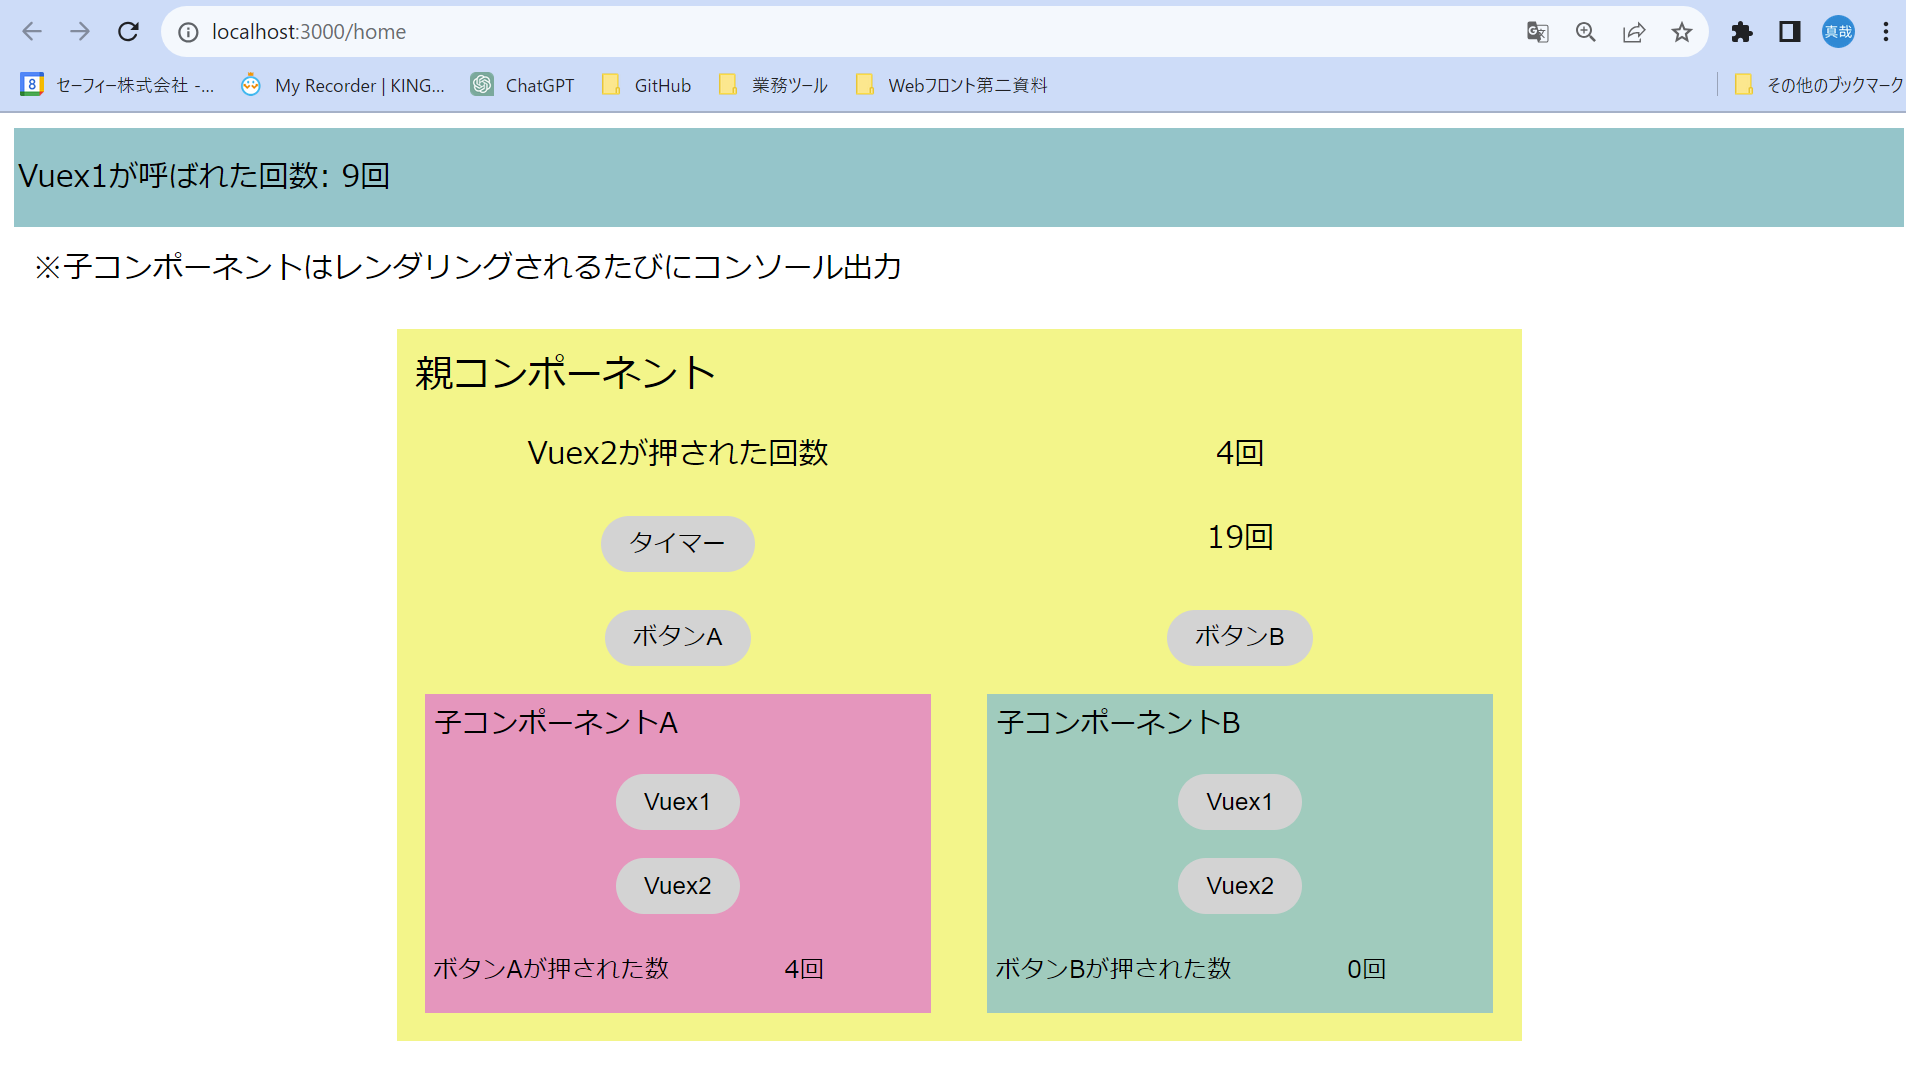
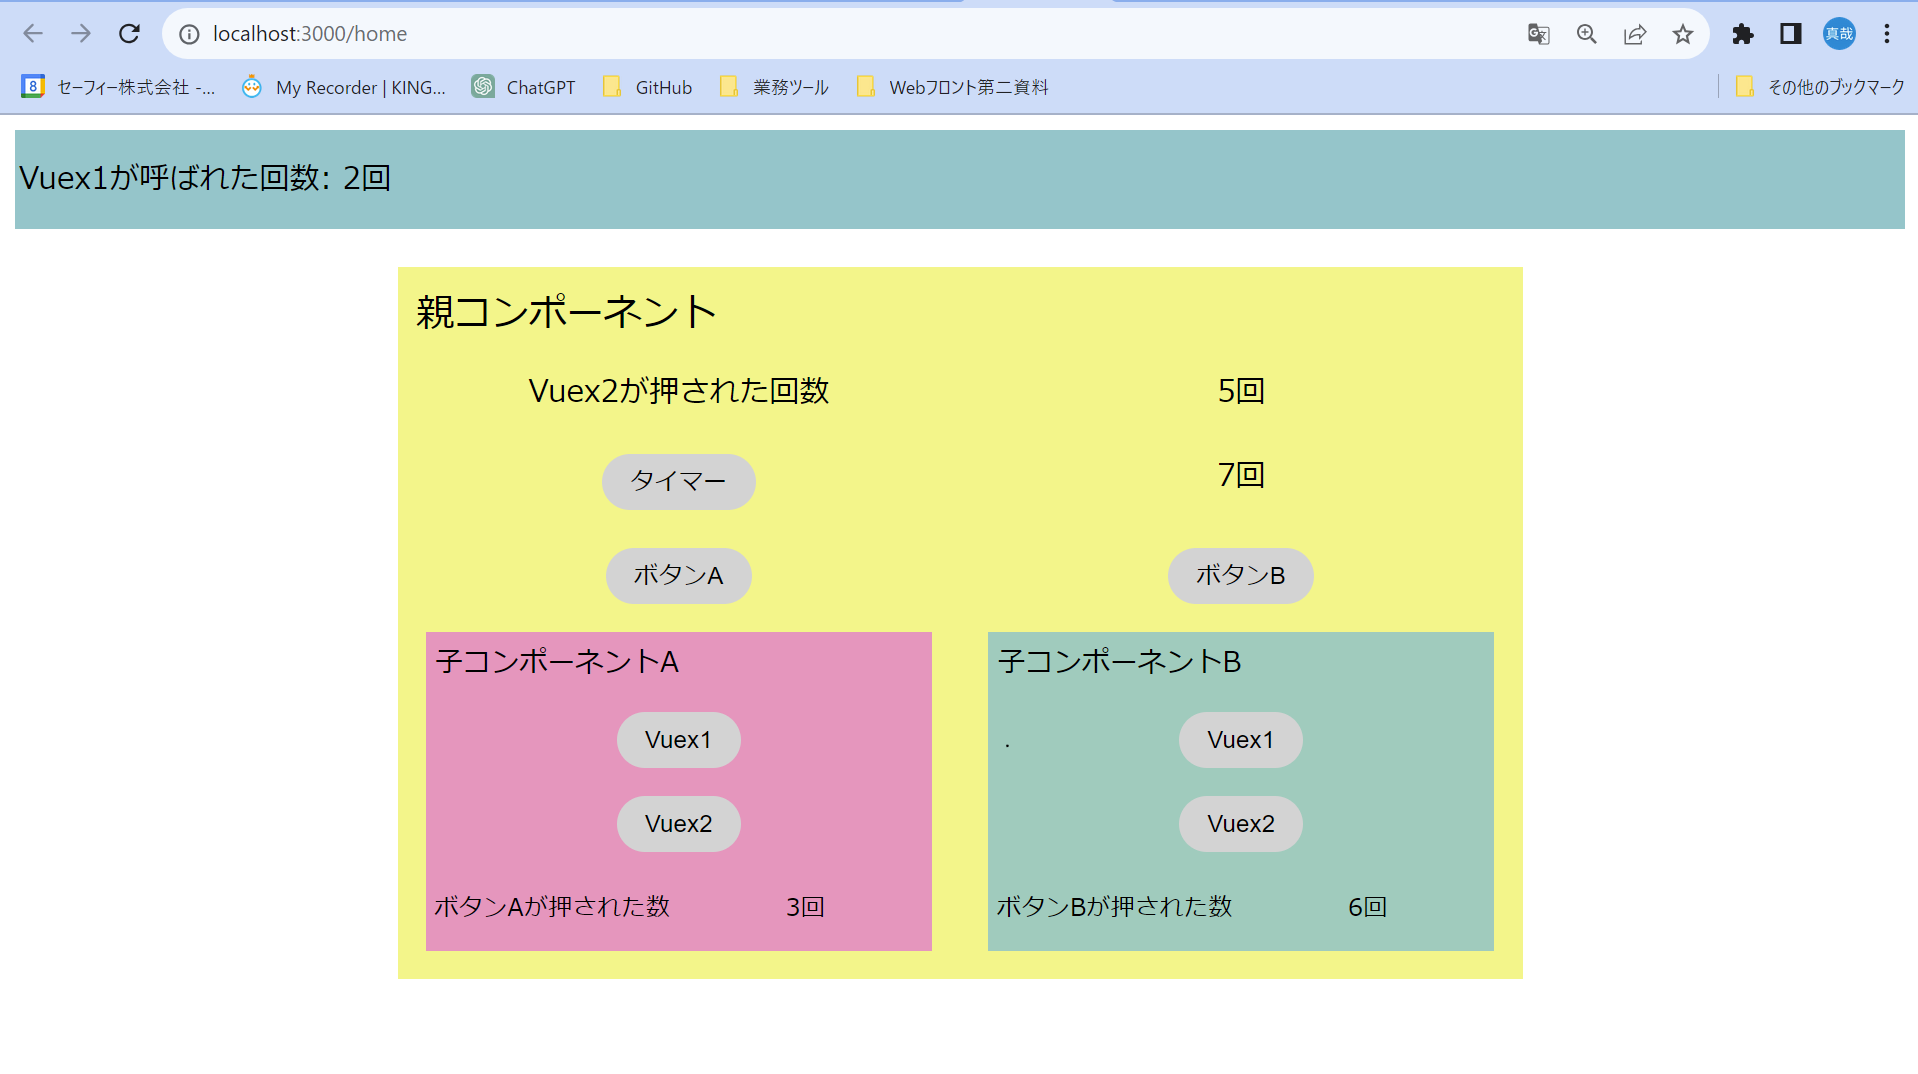
fix: 修正

diff --git a/src/components/pages/home/Parent/Child.vue b/src/components/pages/home/Parent/Child.vue
@@ -28,7 +28,6 @@ export default class Child extends Vue {
   @Prop({ default: 0, type: Number }) state!: number
   @Prop({ default: 'pink', type: String }) backgroundColor!: string
 
-  @Watch('state', { immediate: true })
   onClick1() {
     this.$store.dispatch('app/count1Up', 1)
   }
@@ -36,8 +35,6 @@ export default class Child extends Vue {
   onClick2() {
     this.$store.dispatch('app/count2Up', 1)
   }
-
-  value = 'fdf'
 }
 </script>
 

diff --git a/src/pages/home.vue b/src/pages/home.vue
@@ -1,6 +1,5 @@
 <template>
   <div>
-    <div class="Annotation">※子コンポーネントはレンダリングされるたびにコンソール出力</div>
     <div class="Parent">
       <parent />
     </div>
